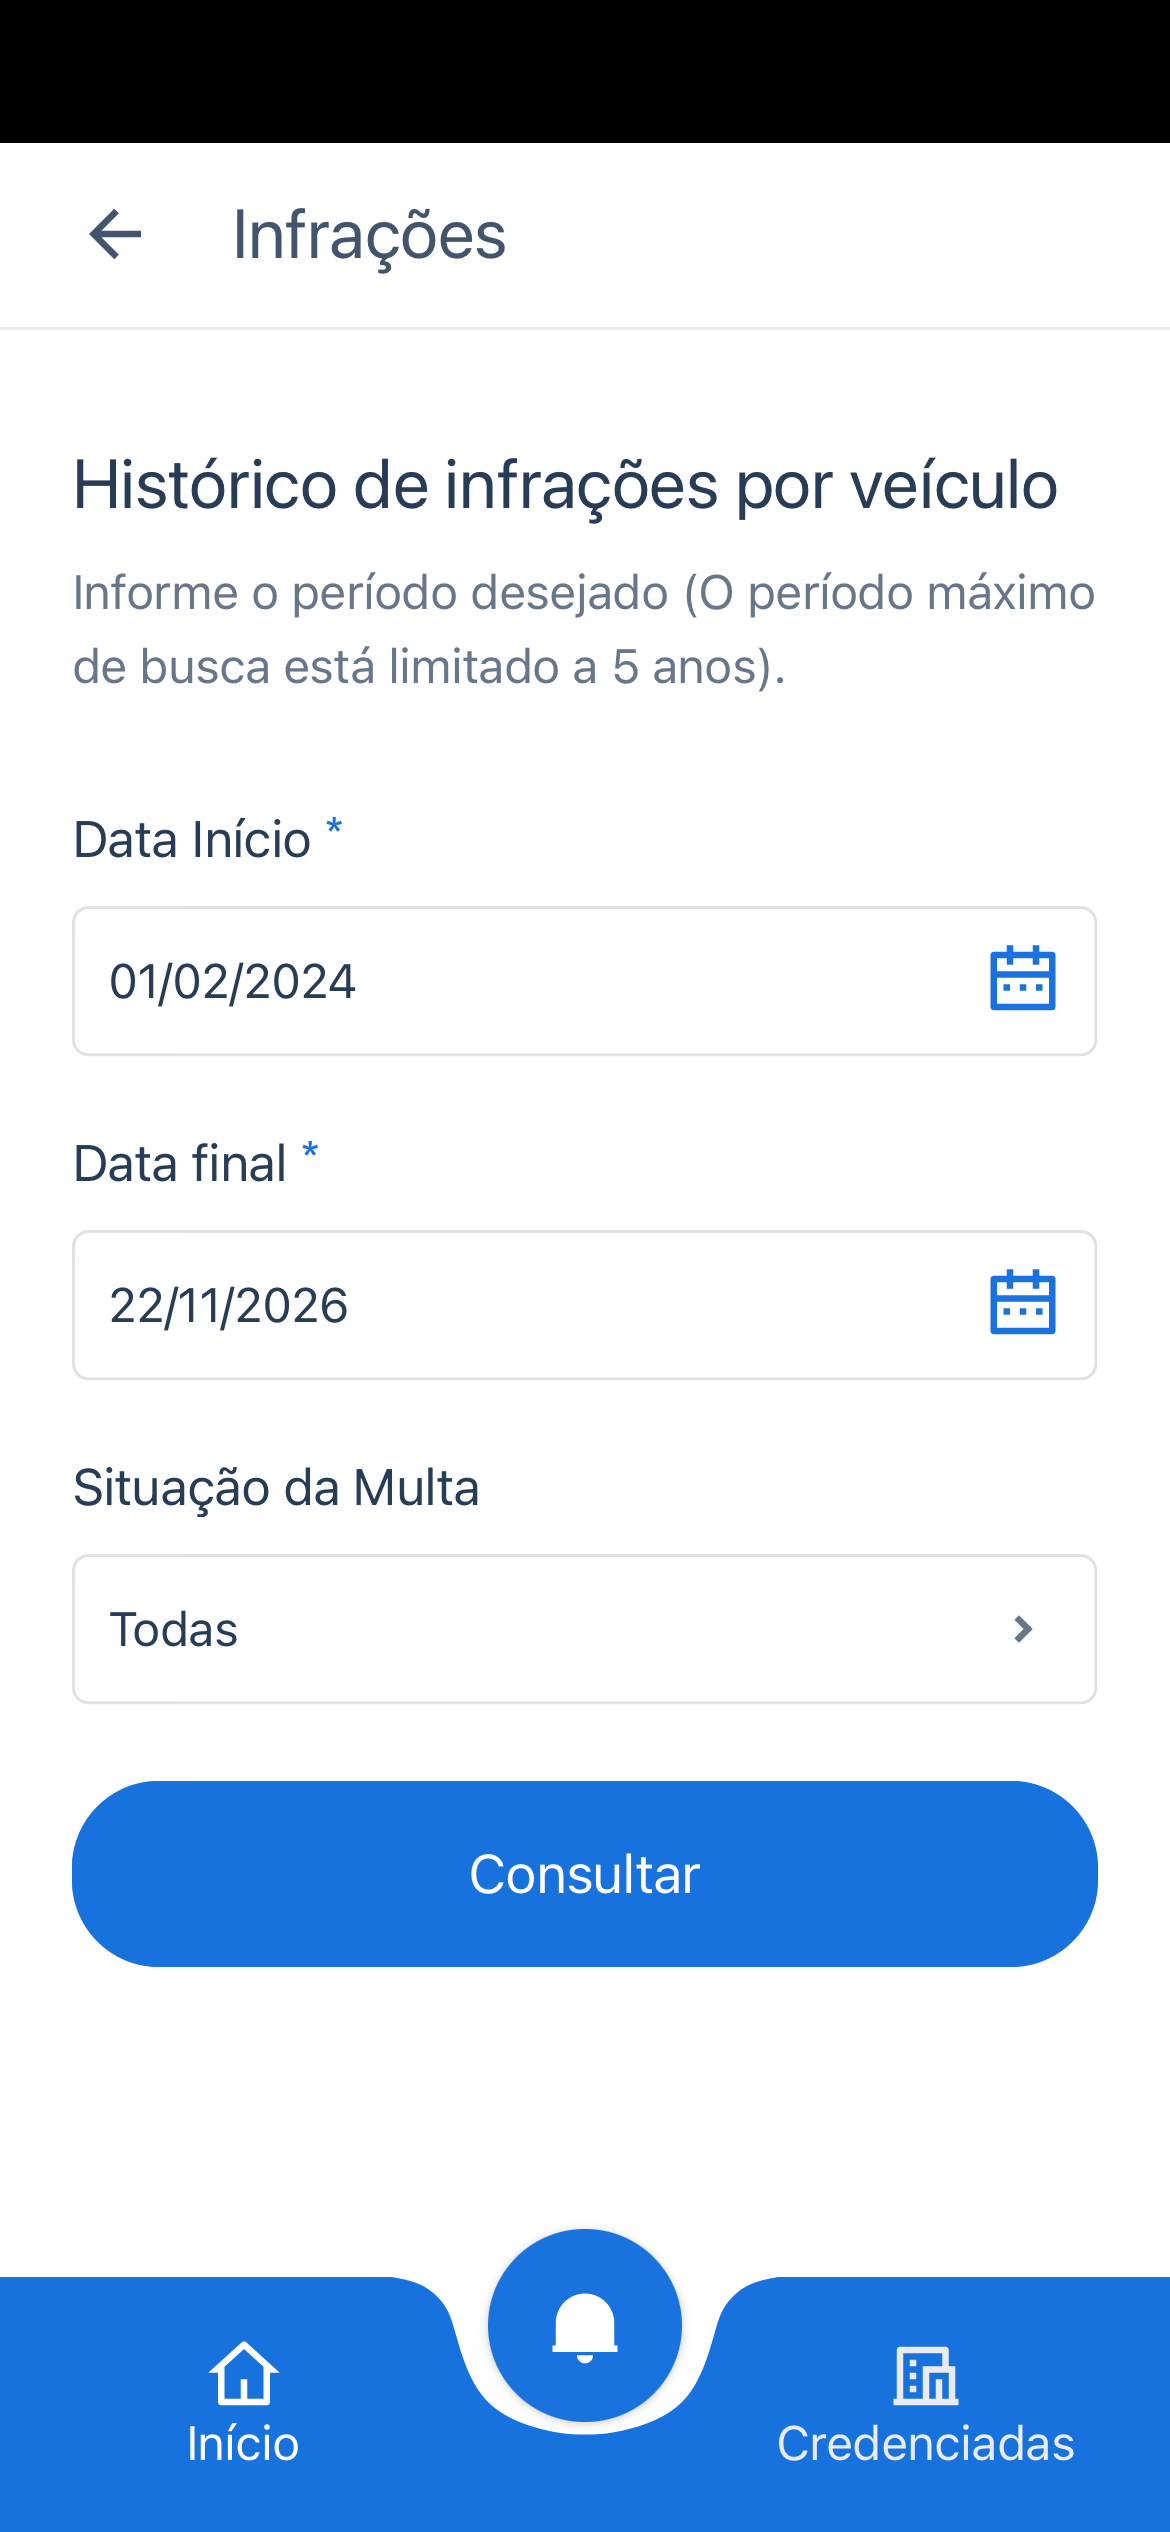
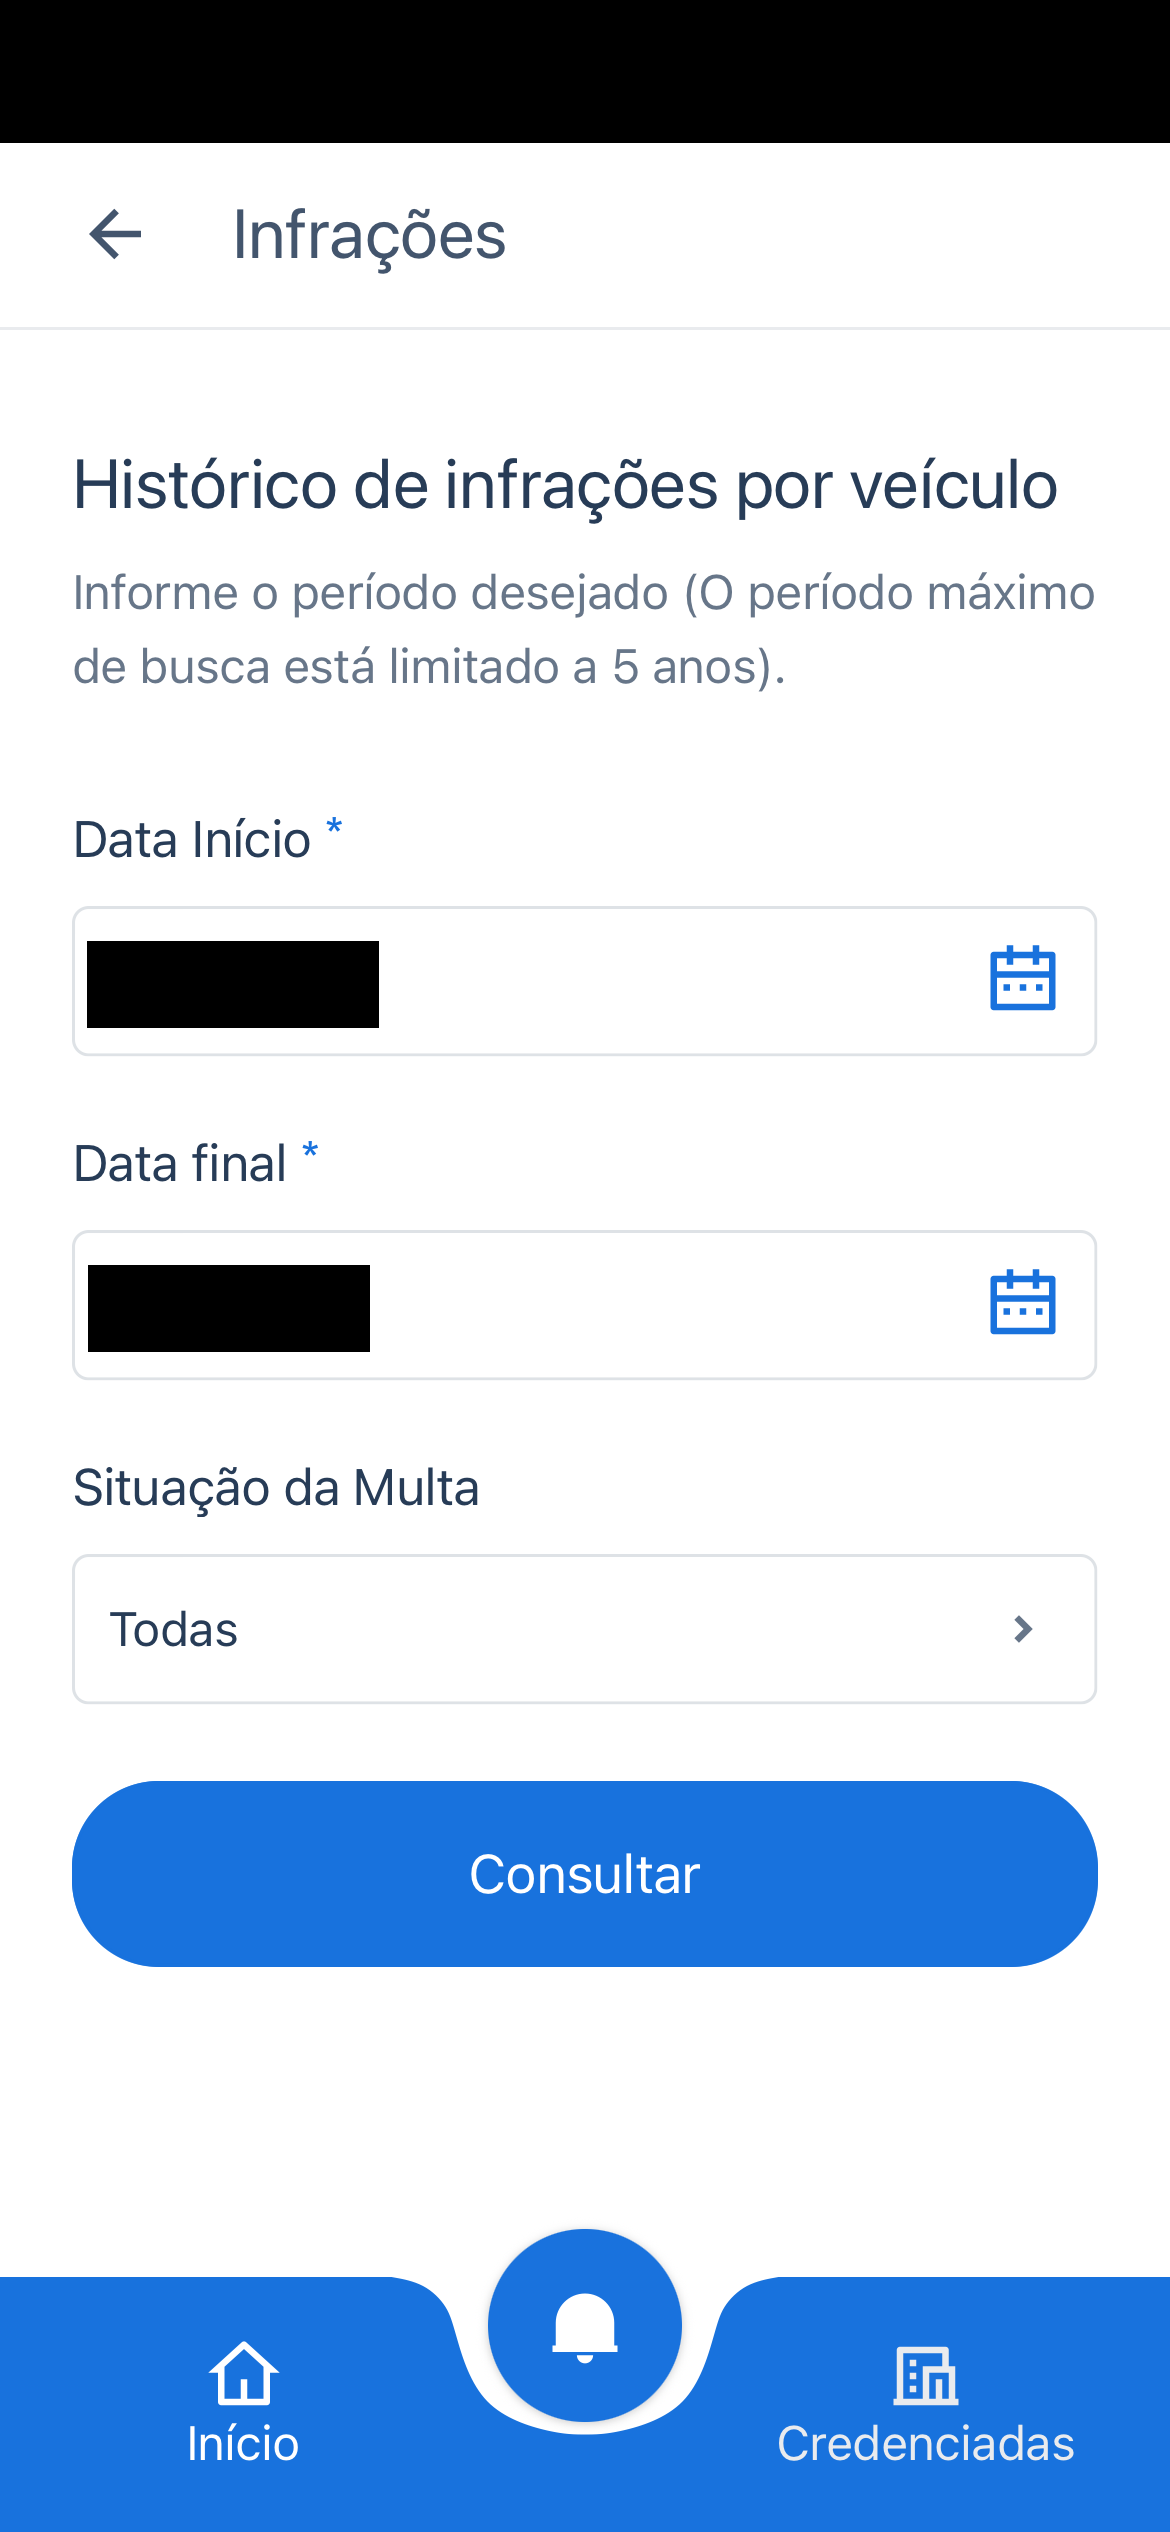
fix(fase4): cobre as datas do filtro na captura do CT06 e corrige a descrição do período
A captura do formulário de período do iPhone mostrava as datas do filtro,
o que permitia deduzir quando a infração ocorreu. As duas datas ficam sob
tarja opaca, como os demais dados das capturas.

O registro e o D030 diziam que o período foi ampliado até o limite de 5
anos, o que não corresponde à captura. O texto passa a dizer que o período
foi ajustado para incluir a infração, dentro desse limite, sem citar datas.

Changed region(s): [[0.0615, 0.4992, 0.3385, 0.5616], [0.0615, 0.3744, 0.3385, 0.4056]]

diff --git a/evidencias/fase4/S03-CT06-iphone-registro-2026-11-22.md b/evidencias/fase4/S03-CT06-iphone-registro-2026-11-22.md
@@ -35,7 +35,7 @@ aprovação de piloto.
 ## Caminho executado em cada tentativa
 
 Tela inicial autenticada, Infrações, Histórico de infrações por veículo, escolha do veículo V5,
-período ampliado até o limite permitido, com "Todas" as situações, Consultar, escolha da infração V5-I1 e
+período ajustado para incluir a infração, dentro do limite de 5 anos do aplicativo, com "Todas" as situações, Consultar, escolha da infração V5-I1 e
 detalhe (folha "Confira o detalhamento da infração"). Critério de conclusão: o detalhe exibe o rótulo
 "Descrição da Infração", como nas demais tentativas do P6.
 
@@ -60,8 +60,8 @@ presente momento, não há registros", e a seção de veículos atuais listava d
 
 Capturas feitas durante a primeira passagem pelo caminho (12:06 a 12:09, conforme os metadados dos
 originais). Antes de entrar no repositório, foram cobertos com tarja opaca: a barra de status, o nome do
-usuário, os modelos e as placas dos veículos, o nome e o número do auto, a data da infração e
-o valor da placa e do modelo no detalhe. As cópias não têm metadados. Os originais, sem tarja, ficam
+usuário, os modelos e as placas dos veículos, o nome e o número do auto, a data da infração,
+o valor da placa e do modelo no detalhe e as datas do filtro de período. As cópias não têm metadados. Os originais, sem tarja, ficam
 em `dados/privado/`, ignorado pelo Git.
 
 | Arquivo | Conteúdo |
